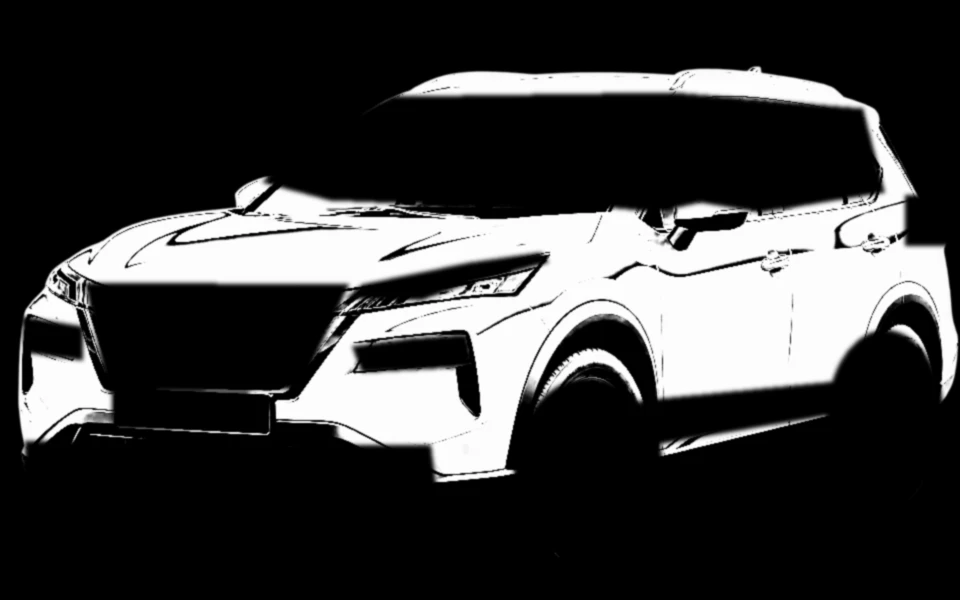
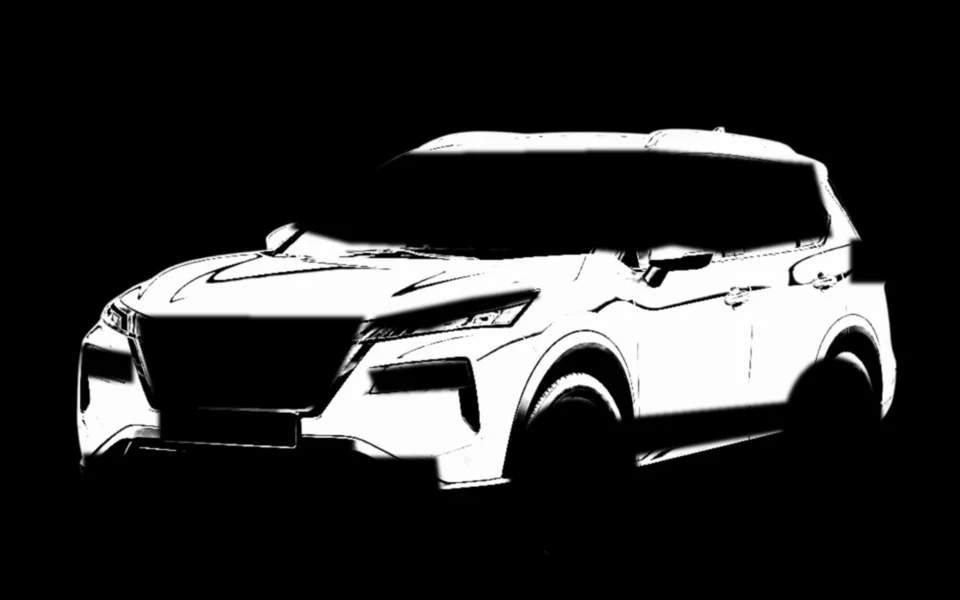
Choose the binder yourself: move selected CoCs to an existing or new binder; thumbnails never clipped
- "Į aplanką" for selected rows, in the row menu and for ticked multi-VIN
  results: pick a binder of the same model (shows fill before → after, warns
  when it will not fit) or type a new code. Manual choices are kept; only new
  CoCs are placed automatically.
- Car thumbnails are no longer clipped; the recolour fallback image has the
  same framing as the colour photos.

Claude-Session: https://claude.ai/code/session_015X4um8EfEFxLrK22u6Xj2y

Changed region(s): [[0.0, 0.09, 1.0, 0.84]]

diff --git a/web/js/sandelis/main.js b/web/js/sandelis/main.js
@@ -1046,6 +1046,7 @@ function renderBulkAnswer(vins) {
       <span class="bulk-actions">
         ${have ? `<label class="pick-all"><input type="checkbox" data-bulk="pick-all" ${picked === have ? "checked" : ""}>Visi turimi</label>
           <button type="button" class="btn primary sm" data-bulk="give" ${picked ? "" : "disabled"}>${icon("send")}Atiduoti pažymėtus${picked ? ` (${picked})` : ""}</button>
+          <button type="button" class="btn sm" data-bulk="binder" ${picked ? "" : "disabled"}>${icon("folder")}Į aplanką</button>
           <button type="button" class="btn sm" data-bulk="select">${icon("check")}Pažymėti sąraše</button>
           <button type="button" class="btn sm" data-bulk="pazyma">${icon("doc")}Pažymos turimiems</button>` : ""}
         ${none ? `<button type="button" class="btn sm" data-bulk="copy">${icon("file")}Kopijuoti neturimus</button>` : ""}
@@ -1511,6 +1512,7 @@ function openRowMenu(id, anchor) {
     item("pdf", "eye", "Peržiūrėti dokumentą"),
     item("pazyma", "doc", "Pažyma"),
     item("download", "download", "Atsisiųsti PDF"),
+    record.status === STATUS.IN ? item("binder", "folder", "Perkelti į kitą aplanką") : "",
     item("reread", "undo", "Perskaityti iš naujo"),
     record.status === STATUS.IN ? item("give", "send", "Atiduoti", "red") : "",
     record.status === STATUS.OUT ? item("return", "undo", "Grąžinti į turimus") : "",
@@ -1536,6 +1538,69 @@ function rowAction(action, id) {
   if (action === "reread") rereadRecords([id]);
   if (action === "give") openGive([id]);
   if (action === "return") returnRecords([id]);
+  if (action === "binder") openBinderDialog([id]);
+}
+
+// ---------------------------------------------------------------------------
+// Rankinis dėjimas į aplanką
+// ---------------------------------------------------------------------------
+
+let binderIds = [];
+
+const nextBinderCode = () => {
+  const numbers = [...binders.map((binder) => binder.code), ...Object.values(folderCodes)]
+    .map((code) => Number((/^A-(\d+)$/.exec(code) || [])[1] || 0));
+  return `A-${String(Math.max(0, ...numbers) + 1).padStart(2, "0")}`;
+};
+
+/** Pasirinktus CoC perkelia į pasirinktą (ar naują) to paties modelio aplanką. */
+function openBinderDialog(ids) {
+  const list = ids.map(byId).filter((record) => record && record.status === STATUS.IN);
+  if (!list.length) { toast("Į aplanką dedami tik turimi CoC.", "warn"); return; }
+  const groups = [...new Set(list.map(folderOf))];
+  if (groups.length > 1) { toast(`Pažymėti skirtingi modeliai (${groups.join(", ")}) – viename aplanke modeliai nemaišomi.`, "warn"); return; }
+  const [group] = groups;
+  binderIds = list.map((record) => record.id);
+  const special = list.some(inSpecialFolder);
+  const own = binderContents(records, binders).filter((binder) => binder.group === group);
+  const current = new Set(list.map((record) => record.binder));
+  $("binder-count").textContent = list.length === 1 ? (list[0].vin || "").slice(-6) : `${list.length} CoC`;
+  $("binder-text").textContent = `${group}: pasirinkite aplanką. ${special ? "Specialus aplankas – vietų nevaržo." : `Viename aplanke telpa ${BINDER_SIZE}; kas netilps, bus perkelta į kitą to modelio aplanką.`}`;
+  $("binder-choices").innerHTML = own.map((binder) => {
+    const moving = binderIds.filter((id) => byId(id).binder !== binder.code).length;
+    const after = binder.records.length + moving;
+    const over = !special && after > BINDER_SIZE;
+    return `<label class="choice ${over ? "over" : ""}"><input type="radio" name="binder" value="${esc(binder.code)}" ${current.size === 1 && current.has(binder.code) ? "checked" : ""}>
+      <b class="code">${esc(binder.code)}</b>${esc(binder.group)}<small>${binderFill(binder.records.length, special)}${moving && binder.records.length !== after ? ` → ${binderFill(after, special)}` : ""}${over ? " – netilps" : ""}</small></label>`;
+  }).join("") || `<p class="muted">Šio modelio aplankų dar nėra – įrašykite naujo kodą.</p>`;
+  $("binder-new").value = "";
+  $("binder-new").placeholder = `pvz. ${nextBinderCode()}`;
+  $("sidebar").classList.remove("open");
+  $("binder-dialog").showModal();
+}
+
+async function moveToBinder(code) {
+  const list = binderIds.map(byId).filter(Boolean);
+  if (!list.length || !code) return false;
+  const group = folderOf(list[0]);
+  const existing = binders.find((binder) => binder.code === code);
+  if (existing && existing.group !== group) {
+    const used = records.some((record) => record.status === STATUS.IN && record.binder === code);
+    if (used) { toast(`Aplankas ${code} skirtas „${existing.group}“ – kitų modelių nemaišome.`, "err"); return false; }
+    existing.group = group; // tuščias aplankas gali būti panaudotas kitam modeliui
+  }
+  if (!existing) binders.push({ code, group });
+  await setMeta("binders", binders);
+  for (const record of list) {
+    if (record.binder !== code) await update(record, { binder: code });
+  }
+  applyBinders();
+  render();
+  const overflow = list.filter((record) => record.binder !== code).length;
+  toast(overflow
+    ? `Į ${code} perkelta ${list.length - overflow}; ${overflow} netilpo ir liko kitame ${group} aplanke.`
+    : `Perkelta į ${code}: ${list.length} CoC.`, overflow ? "warn" : "ok");
+  return true;
 }
 
 /**
@@ -2218,6 +2283,7 @@ $("answer").addEventListener("click", async (event) => {
   if (action === "select") { have.forEach((id) => selected.add(id)); renderTable(); toast(`Pažymėta: ${have.length}.`); }
   if (action === "pazyma") makePazymos(have);
   if (action === "give") { if (bulkPicked.size) openGive([...bulkPicked]); }
+  if (action === "binder") { if (bulkPicked.size) openBinderDialog([...bulkPicked]); }
   if (action === "clear") { $("q").value = ""; $("q").dispatchEvent(new Event("input")); }
   if (action === "copy") {
     const missing = bulkResult.filter((row) => row.state === "none").map((row) => row.query).join("\n");
@@ -2382,6 +2448,8 @@ const ACTIONS = {
   "pdf-selected": () => downloadPdfs([...selected]),
   "pazyma-selected": () => makePazymos([...selected]),
   "reread-selected": () => rereadRecords([...selected]),
+  "binder-selected": () => openBinderDialog([...selected]),
+  "binder-cancel": () => $("binder-dialog").close(),
   "clear-selection": () => { selected.clear(); renderTable(); },
   "give-cancel": () => $("give").close(),
   "codes-cancel": () => $("codes").close(),
@@ -2509,6 +2577,19 @@ $("codes-number").addEventListener("click", () => {
   [...$("codes-list").querySelectorAll("[data-code-for]")].forEach((input, index) => {
     input.value = `A-${String(start + index).padStart(2, "0")}`;
   });
+});
+
+$("binder-form").addEventListener("submit", async (event) => {
+  if (event.submitter?.value !== "ok") return;
+  event.preventDefault();
+  const typed = cleanFolderCode($("binder-new").value);
+  const picked = $("binder-choices").querySelector("input:checked")?.value;
+  const code = typed || picked;
+  if (!code) { toast("Pasirinkite aplanką arba įrašykite naujo kodą.", "warn"); return; }
+  if (await moveToBinder(code)) $("binder-dialog").close();
+});
+$("binder-new").addEventListener("input", () => {
+  if ($("binder-new").value) $("binder-choices").querySelectorAll("input").forEach((input) => { input.checked = false; });
 });
 
 $("codes-form").addEventListener("submit", async (event) => {

diff --git a/web/sandelis/index.html b/web/sandelis/index.html
@@ -159,6 +159,7 @@
         <button class="btn sm" data-action="return-selected"><svg><use href="#i-undo"/></svg>Grąžinti</button>
         <button class="btn sm" data-action="pdf-selected"><svg><use href="#i-download"/></svg>PDF</button>
         <button class="btn sm" data-action="pazyma-selected"><svg><use href="#i-doc"/></svg>Pažymos</button>
+        <button class="btn sm" data-action="binder-selected"><svg><use href="#i-folder"/></svg>Į aplanką</button>
         <button class="btn sm" data-action="reread-selected"><svg><use href="#i-undo"/></svg>Perskaityti</button>
         <button class="btn sm" data-action="excel-selected"><svg><use href="#i-sheet"/></svg>Excel</button>
         <button class="icon-btn sm" data-action="clear-selection" aria-label="Atžymėti"><svg><use href="#i-x"/></svg></button>
@@ -421,6 +422,25 @@
   <option value="BALTA/JUODA"><option value="PILKA/JUODA"><option value="SIDABRINĖ/JUODA"><option value="MĖLYNA/JUODA">
   <option value="RAUDONA/JUODA"><option value="ŽALIA/JUODA">
 </datalist>
+
+<dialog id="binder-dialog" class="small-dialog">
+  <form method="dialog" id="binder-form">
+    <header class="dialog-head">
+      <div><span class="pill" id="binder-count"></span><h2>Į kurį aplanką dėti?</h2></div>
+      <button type="button" class="icon-btn" data-action="binder-cancel" aria-label="Uždaryti"><svg><use href="#i-x"/></svg></button>
+    </header>
+    <p class="muted" id="binder-text"></p>
+    <div class="choices" id="binder-choices"></div>
+    <div class="new-folder">
+      <label for="binder-new">Arba naujas aplankas (kodas)</label>
+      <input type="text" id="binder-new" class="mono" maxlength="8" autocomplete="off" placeholder="pvz. A-14">
+    </div>
+    <div class="dialog-actions">
+      <button type="submit" class="btn primary" value="ok"><svg><use href="#i-folder"/></svg>Perkelti</button>
+      <button type="button" class="btn" data-action="binder-cancel">Atšaukti</button>
+    </div>
+  </form>
+</dialog>
 
 <dialog id="stickers" class="small-dialog">
   <form method="dialog" id="stickers-form">

diff --git a/web/sandelis/sandelis.css b/web/sandelis/sandelis.css
@@ -807,10 +807,10 @@ body { background: radial-gradient(120% 90% at 30% 0%, #222225, #141416 70%); ov
 .doc-check:has(input:focus-visible) { outline: 2px solid #fff; outline-offset: 2px; border-radius: 6px; }
 /* Mažas automobilis: vienodo dydžio, apkarpytas, su švelniu šešėliu po ratais. */
 .car-thumb {
-  position: relative; width: 104px; height: 56px; display: grid; place-items: center; overflow: hidden; border-radius: 8px;
+  position: relative; width: 104px; height: 56px; display: grid; place-items: center; overflow: visible; border-radius: 8px;
   background: radial-gradient(70% 30% at 50% 92%, rgba(0, 0, 0, .55), transparent 70%);
 }
-.car-thumb img { width: 92%; height: 92%; object-fit: contain; object-position: center 70%; animation: fade .4s both; }
+.car-thumb img { width: 100%; height: 100%; object-fit: contain; object-position: center; animation: fade .4s both; }
 .car-thumb.none { color: var(--dim); }
 .car-thumb.none svg { width: 28px; height: 28px; stroke-width: 1.3; }
 .lrow-main { min-width: 0; display: flex; flex-direction: column; gap: 4px; }
@@ -1041,6 +1041,8 @@ textarea:focus { outline: none; border-color: #5a5a62; }
 #folder-nav .fill.none { background: transparent; }
 #folder-nav .nav.binder .badge { margin-left: 0; }
 #stickers .choices { max-height: 38vh; }
+#binder-dialog .choice b.code { margin-right: 4px; }
+#binder-dialog .choice.over small { color: var(--amber); }
 #stickers .choice b.code { margin-right: 4px; }
 .binders-notice .actions { flex-wrap: wrap; }
 

diff --git a/web/sw.js b/web/sw.js
@@ -3,7 +3,7 @@
 // Kad programa veiktų be interneto, visi failai (įskaitant atpažinimo variklį
 // ir kalbos duomenis) įrašomi į naršyklės talpyklą iškart po pirmo atidarymo.
 
-const VERSION = "aikstele-18206028eb8e";
+const VERSION = "aikstele-c271be7adafd";
 const ASSETS = [
   "./",
   "./version.js",

diff --git a/web/version.js b/web/version.js
@@ -1,2 +1,2 @@
 // Sugeneruota `tools/build_sw.py` – ranka nekeisti.
-export const VERSION = "aikstele-18206028eb8e";
+export const VERSION = "aikstele-c271be7adafd";
